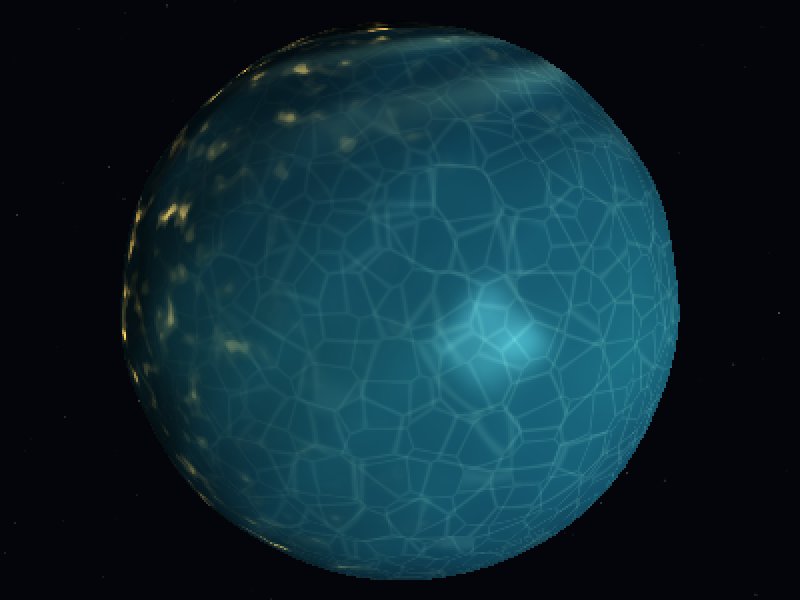
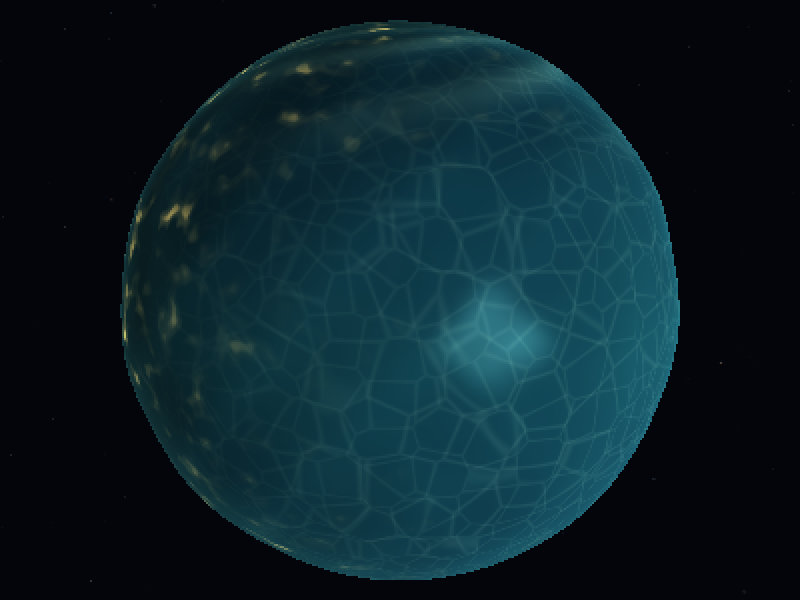
docs(captures): Regenerar capturas oficiales con halo solar, brillo atmosférico y mejor encuadre.

diff --git a/src/docs_capture.rs b/src/docs_capture.rs
@@ -214,7 +214,7 @@ pub fn generate_docs_captures() {
     let ship_lods = load_ship_lods();
     let (sv, si) = &ship_lods.levels[0];
     let ship_verts: Vec<_> = si.iter().map(|&idx| sv[idx].clone()).collect();
-    let cam_ship = Camera::new(Vector3::new(1.8, 0.9, 2.6), Vector3::zero(), 45.0_f32.to_radians(), 0.1, 100.0);
+    let cam_ship = Camera::new(Vector3::new(0.95, 0.45, 1.35), Vector3::zero(), 45.0_f32.to_radians(), 0.1, 100.0);
     let ship_u = Uniforms {
         model_matrix: Mat4::scale(Vector3::new(0.025, 0.025, 0.025)),
         view_matrix: cam_ship.view_matrix(),
@@ -285,8 +285,16 @@ pub fn generate_docs_captures() {
         compose_and_save(&fb, Some(&ov), &out_dir.join(fname));
     }
 
-    // 6. Normales ON / OFF en Zebes.
-    let cam_zebes = Camera::new(zebes_pos + Vector3::new(1.5, 0.6, 2.8), zebes_pos, 45.0_f32.to_radians(), 0.1, 400.0);
+    // 6. Normales ON / OFF en Zebes (lado iluminado por el Sol).
+    let to_sun_zebes = (body_position_at(&bodies[0], time) - zebes_pos).normalize();
+    let side_zebes = to_sun_zebes.cross(Vector3::new(0.0, 1.0, 0.0)).normalize();
+    let cam_zebes = Camera::new(
+        zebes_pos + (to_sun_zebes * 0.80 + side_zebes * 0.48 + Vector3::new(0.0, 0.22, 0.0)).normalize() * 3.1,
+        zebes_pos,
+        45.0_f32.to_radians(),
+        0.1,
+        400.0,
+    );
     render_scene_frame(&bodies, &mut caches, &noise, &baked, &cam_zebes, time, threads, TriangleMode::FilledBarycentric, true, Some(4), true, 42, false, &mut fb, &mut bufs);
     compose_and_save(&fb, None, &out_dir.join("normales_on.png"));
     render_scene_frame(&bodies, &mut caches, &noise, &baked, &cam_zebes, time, threads, TriangleMode::FilledBarycentric, true, Some(4), false, 42, false, &mut fb, &mut bufs);
